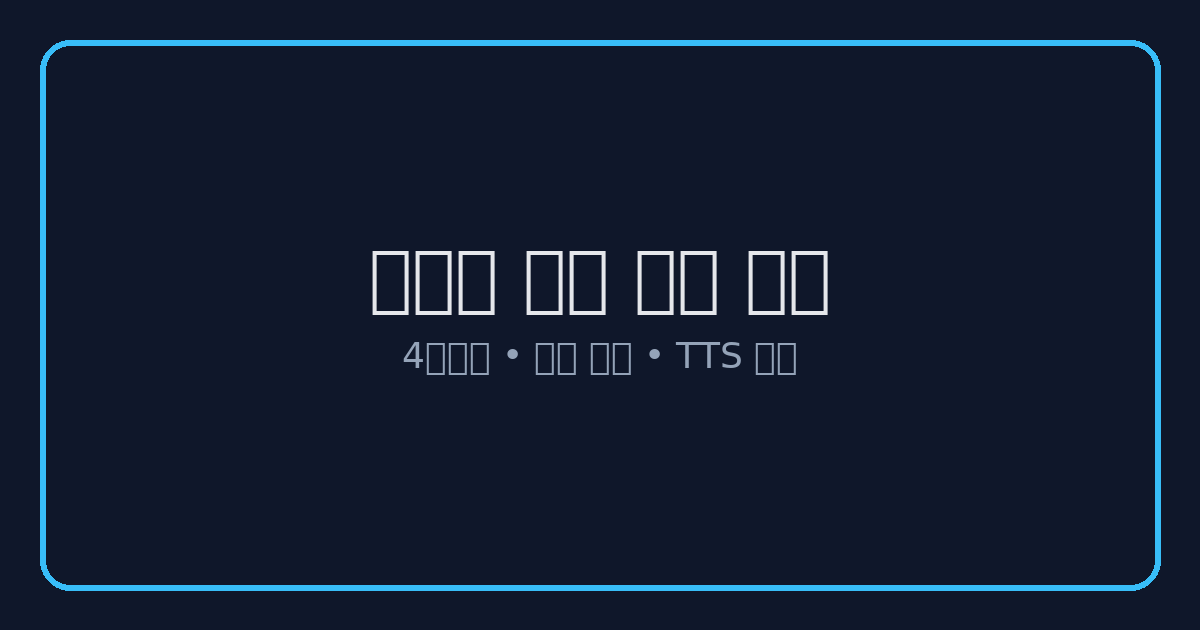
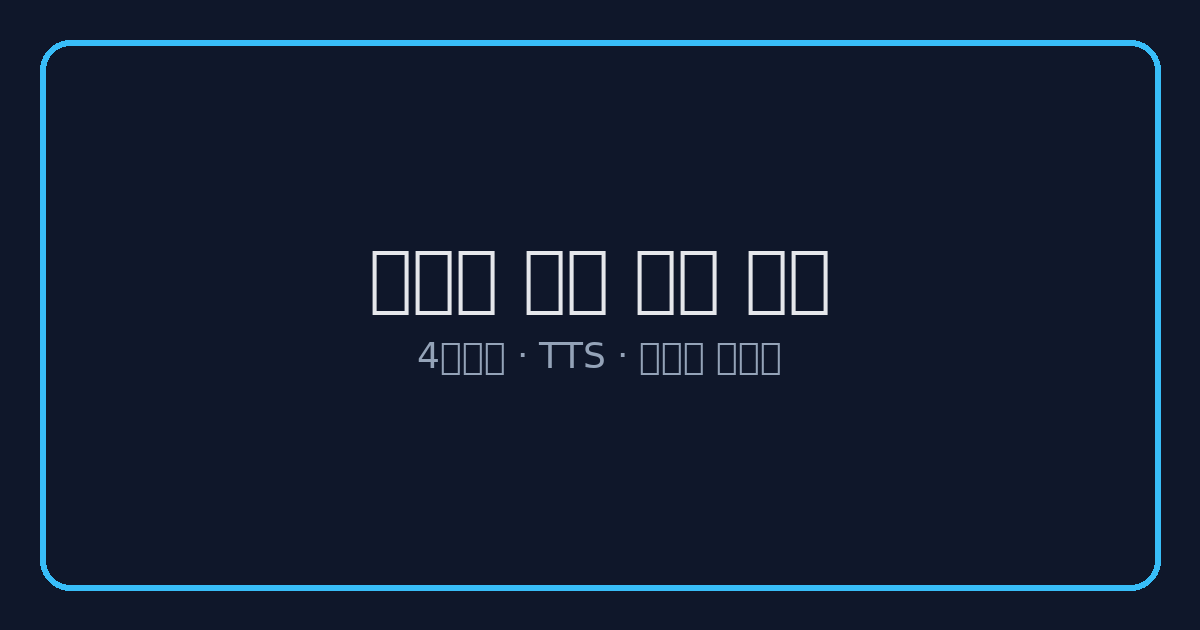
22

Changed region(s): [[0.3392, 0.5429, 0.6783, 0.6032]]

diff --git a/index.html b/index.html
@@ -2,48 +2,47 @@
 <html lang="ko">
 <head>
   <meta charset="UTF-8" />
-  <meta name="viewport" content="width=device-width, initial-scale=1" />
+  <meta name="viewport" content="width=device-width, initial-scale=1, viewport-fit=cover" />
+  <meta name="theme-color" content="#0b1220" />
   <title>유아용 영어 기초단어 퀴즈</title>
   <style>
-    :root{
-      --bg:#0f172a; --card:#111827cc; --text:#e5e7eb; --muted:#94a3b8; --primary:#22c55e; --danger:#ef4444; --accent:#38bdf8;
-    }
+    :root{ --bg:#0f172a; --card:#111827cc; --text:#e5e7eb; --muted:#94a3b8; --primary:#22c55e; --danger:#ef4444; --accent:#38bdf8; }
     *{box-sizing:border-box}
     body{margin:0;background:linear-gradient(180deg,#0b1220,#111827);color:var(--text);font-family:system-ui,-apple-system,Segoe UI,Roboto,Pretendard,Apple SD Gothic Neo,Noto Sans KR,sans-serif;}
-    .container{max-width:960px;margin:0 auto;padding:20px}
-    header{display:flex;gap:16px;align-items:center;justify-content:space-between;margin-bottom:16px}
+    .container{max-width:960px;margin:0 auto;padding:16px}
+    header{display:flex;gap:12px;align-items:center;justify-content:space-between;margin-bottom:12px}
     .title{font-weight:800;letter-spacing:.3px}
     .title .sub{display:block;font-size:13px;color:var(--muted);font-weight:500}
-    .card{background:var(--card);backdrop-filter:blur(8px);border:1px solid #1f2937;border-radius:20px;padding:18px}
-    .row{display:grid;grid-template-columns:1fr;gap:16px}
+    .card{background:var(--card);backdrop-filter:blur(8px);border:1px solid #1f2937;border-radius:16px;padding:14px}
+    .row{display:grid;grid-template-columns:1fr;gap:12px}
     @media(min-width:760px){.row{grid-template-columns:2fr 1fr}}
-    .word{font-size:40px;font-weight:900;letter-spacing:.5px;text-align:center}
-    .hint{font-size:14px;color:var(--muted);text-align:center;margin-top:4px}
-    .options{display:grid;grid-template-columns:1fr;gap:12px;margin-top:16px}
-    @media(min-width:560px){.options{grid-template-columns:1fr 1fr}}
-    button.option{all:unset;cursor:pointer;padding:14px 16px;border:1px solid #1f2937;border-radius:14px;background:#0b1220;transition:transform .08s ease, background .2s ease, border-color .2s}
+    .word{font-size:clamp(26px,8vw,40px);font-weight:900;letter-spacing:.5px;text-align:center}
+    .hint{font-size:13px;color:var(--muted);text-align:center;margin-top:2px}
+    .options{display:grid;grid-template-columns:1fr 1fr;gap:10px;margin-top:12px}
+    @media(max-width:360px){.options{grid-template-columns:1fr}}
+    button.option{all:unset;cursor:pointer;padding:12px;border:1px solid #1f2937;border-radius:12px;background:#0b1220;transition:transform .08s ease, background .2s ease, border-color .2s}
     button.option:hover{transform:translateY(-1px);border-color:#334155}
     button.option.correct{border-color:var(--primary);background:#052e17}
     button.option.wrong{border-color:var(--danger);background:#2a0a0a}
-    .controls{display:flex;gap:10px;flex-wrap:wrap;align-items:center}
+    .controls{display:flex;gap:8px;flex-wrap:wrap;align-items:center}
     .controls button,.controls select,.controls label{font-size:14px}
-    .btn{all:unset;cursor:pointer;padding:10px 14px;border:1px solid #1f2937;border-radius:12px;background:#0b1220}
+    .btn{all:unset;cursor:pointer;padding:9px 12px;border:1px solid #1f2937;border-radius:12px;background:#0b1220}
     .btn:hover{border-color:#334155}
-    .pill{padding:8px 10px;border-radius:999px;background:#0b1220;border:1px solid #1f2937}
+    .pill{padding:6px 8px;border-radius:999px;background:#0b1220;border:1px solid #1f2937}
     .score{font-weight:700}
-    .progress{height:8px;background:#0b1220;border:1px solid #1f2937;border-radius:999px;overflow:hidden}
+    .progress{height:6px;background:#0b1220;border:1px solid #1f2937;border-radius:999px;overflow:hidden}
     .bar{height:100%;width:0;background:linear-gradient(90deg,var(--accent),#22d3ee,#22c55e)}
     .small{font-size:12px;color:var(--muted)}
     .kbd{padding:2px 6px;border:1px solid #334155;border-bottom-width:3px;border-radius:6px;background:#0b1220;font-family:ui-monospace,monospace}
-    footer{margin-top:18px;color:var(--muted);font-size:12px;text-align:center}
+    footer{margin-top:12px;color:var(--muted);font-size:12px;text-align:center}
   </style>
 </head>
 <body>
   <div class="container">
     <header>
       <div class="title">
-        <div style="font-size:22px">유아용 영어 기초단어 퀴즈</div>
-        <span class="sub">위에 보이는 <strong>영어 단어</strong>를 보고 아래 <strong>한글 뜻</strong>을 고르세요. 정답 시 TTS가 읽어줘요.</span>
+        <div style="font-size:20px">유아용 영어 기초단어 퀴즈</div>
+        <span class="sub">영어 단어를 보고 맞는 <strong>한글 뜻</strong>을 고르세요. 정답 시 TTS 발음!</span>
       </div>
       <div class="pill score" id="scoreBox">0 / 0</div>
     </header>
@@ -53,7 +52,7 @@
         <div class="word" id="word">loading…</div>
         <div class="hint" id="hint"></div>
         <div class="options" id="options"></div>
-        <div class="controls" style="margin-top:14px">
+        <div class="controls" style="margin-top:10px">
           <button class="btn" id="nextBtn" title="다음 문제 (N)">다음 문제 ▶</button>
           <button class="btn" id="hearBtn" title="영어 단어 듣기 (H)">단어 듣기 🔊</button>
           <label class="pill"><input type="checkbox" id="readKorean"/> 정답 후 한글도 읽기</label>
@@ -61,28 +60,61 @@
           <select class="pill" id="voiceEn"></select>
           <select class="pill" id="voiceKo"></select>
         </div>
-        <div class="progress" style="margin-top:10px"><div class="bar" id="bar"></div></div>
+        <div class="progress" style="margin-top:8px"><div class="bar" id="bar"></div></div>
       </section>
 
       <aside class="card">
-        <div style="font-weight:700;margin-bottom:8px">설정 & 도움말</div>
+        <div style="font-weight:700;margin-bottom:6px">도움말</div>
         <div class="small" style="line-height:1.7">
           • <span class="kbd">N</span> : 다음 문제, <span class="kbd">H</span> : 단어 듣기<br/>
           • 보기 클릭 후 정답이 <span style="color:var(--primary)">초록</span>으로 표시돼요.<br/>
-          • "정답 후 한글도 읽기"를 켜면 영어→한글 순서로 읽습니다.<br/>
-          • "자동 다음"을 켜면 정답 TTS 뒤 자동으로 다음 문제가 나옵니다.(대기 약 3.4초)<br/>
-          • 우측 드롭다운으로 영어/한국어 음성을 선택할 수 있어요.<br/>
+          • 자동다음: 정답 후 대기 약 <b>3.4초</b> 뒤 다음 문제.<br/>
+          • 드롭다운에서 영어/한국어 음성을 선택할 수 있어요.<br/>
         </div>
-        <hr style="border-color:#1f2937;margin:12px 0"/>
-        <div class="small">단어 추가/수정은 아래 코드의 <strong>WORDS</strong> 배열을 편집하면 됩니다.</div>
       </aside>
     </div>
 
-    <footer>© 2025 Basic English Quiz • Web Speech API (TTS) 사용</footer>
+    <footer>© 2025 Basic English Quiz • Web Speech API (TTS)</footer>
   </div>
 
 <script>
-const WORDS = [{en:"apple", ko:"사과", hint:"fruit"},{en:"banana", ko:"바나나", hint:"fruit"},{en:"cat", ko:"고양이", hint:"animal"},{en:"dog", ko:"개", hint:"animal"},{en:"bird", ko:"새", hint:"animal"},{en:"fish", ko:"물고기", hint:"animal"},{en:"cow", ko:"소", hint:"farm"},{en:"pig", ko:"돼지", hint:"farm"},{en:"horse", ko:"말", hint:"farm"},{en:"rabbit", ko:"토끼", hint:"animal"},{en:"lion", ko:"사자", hint:"zoo"},{en:"tiger", ko:"호랑이", hint:"zoo"},{en:"bear", ko:"곰", hint:"zoo"},{en:"monkey", ko:"원숭이", hint:"zoo"},{en:"elephant", ko:"코끼리", hint:"zoo"},{en:"giraffe", ko:"기린", hint:"zoo"},{en:"zebra", ko:"얼룩말", hint:"zoo"},{en:"chicken", ko:"닭", hint:"farm"},{en:"duck", ko:"오리", hint:"animal"},{en:"frog", ko:"개구리", hint:"animal"},{en:"sun", ko:"태양", hint:"sky"},{en:"moon", ko:"달", hint:"sky"},{en:"star", ko:"별", hint:"sky"},{en:"sky", ko:"하늘", hint:"sky"},{en:"cloud", ko:"구름", hint:"weather"},{en:"rain", ko:"비", hint:"weather"},{en:"snow", ko:"눈", hint:"weather"},{en:"water", ko:"물", hint:"drink"},{en:"fire", ko:"불", hint:"hot"},{en:"tree", ko:"나무", hint:"nature"},{en:"flower", ko:"꽃", hint:"nature"},{en:"grass", ko:"풀", hint:"nature"},{en:"leaf", ko:"잎", hint:"nature"},{en:"car", ko:"자동차", hint:"vehicle"},{en:"bus", ko:"버스", hint:"vehicle"},{en:"train", ko:"기차", hint:"vehicle"},{en:"plane", ko:"비행기", hint:"vehicle"},{en:"boat", ko:"배", hint:"vehicle"},{en:"house", ko:"집", hint:"home"},{en:"door", ko:"문", hint:"home"},{en:"window", ko:"창문", hint:"home"},{en:"bed", ko:"침대", hint:"home"},{en:"chair", ko:"의자", hint:"home"},{en:"table", ko:"탁자", hint:"home"},{en:"book", ko:"책", hint:"study"},{en:"pencil", ko:"연필", hint:"study"},{en:"pen", ko:"펜", hint:"study"},{en:"bag", ko:"가방", hint:"school"},{en:"shoes", ko:"신발", hint:"wear"},{en:"hat", ko:"모자", hint:"wear"},{en:"shirt", ko:"셔츠", hint:"wear"},{en:"pants", ko:"바지", hint:"wear"},{en:"milk", ko:"우유", hint:"drink"},{en:"juice", ko:"주스", hint:"drink"},{en:"bread", ko:"빵", hint:"food"},{en:"rice", ko:"밥", hint:"food"},{en:"egg", ko:"계란", hint:"food"},{en:"cake", ko:"케이크", hint:"food"},{en:"candy", ko:"사탕", hint:"food"},{en:"mom", ko:"엄마", hint:"family"},{en:"dad", ko:"아빠", hint:"family"},{en:"baby", ko:"아기", hint:"family"},{en:"friend", ko:"친구", hint:"people"},{en:"hello", ko:"안녕", hint:"greeting"},{en:"bye", ko:"잘 가", hint:"greeting"},{en:"thank you", ko:"고마워", hint:"phrase"},{en:"please", ko:"부탁해", hint:"phrase"},{en:"yes", ko:"네", hint:"answer"},{en:"no", ko:"아니오", hint:"answer"}];
+const WORDS = [
+  {en:"apple", ko:"사과", hint:"fruit"},{en:"banana", ko:"바나나", hint:"fruit"},
+  {en:"cat", ko:"고양이", hint:"animal"},{en:"dog", ko:"개", hint:"animal"},
+  {en:"bird", ko:"새", hint:"animal"},{en:"fish", ko:"물고기", hint:"animal"},
+  {en:"cow", ko:"소", hint:"farm"},{en:"pig", ko:"돼지", hint:"farm"},
+  {en:"horse", ko:"말", hint:"farm"},{en:"rabbit", ko:"토끼", hint:"animal"},
+  {en:"lion", ko:"사자", hint:"zoo"},{en:"tiger", ko:"호랑이", hint:"zoo"},
+  {en:"bear", ko:"곰", hint:"zoo"},{en:"monkey", ko:"원숭이", hint:"zoo"},
+  {en:"elephant", ko:"코끼리", hint:"zoo"},{en:"giraffe", ko:"기린", hint:"zoo"},
+  {en:"zebra", ko:"얼룩말", hint:"zoo"},{en:"chicken", ko:"닭", hint:"farm"},
+  {en:"duck", ko:"오리", hint:"animal"},{en:"frog", ko:"개구리", hint:"animal"},
+  {en:"sun", ko:"태양", hint:"sky"},{en:"moon", ko:"달", hint:"sky"},
+  {en:"star", ko:"별", hint:"sky"},{en:"sky", ko:"하늘", hint:"sky"},
+  {en:"cloud", ko:"구름", hint:"weather"},{en:"rain", ko:"비", hint:"weather"},
+  {en:"snow", ko:"눈", hint:"weather"},{en:"water", ko:"물", hint:"drink"},
+  {en:"fire", ko:"불", hint:"hot"},{en:"tree", ko:"나무", hint:"nature"},
+  {en:"flower", ko:"꽃", hint:"nature"},{en:"grass", ko:"풀", hint:"nature"},
+  {en:"leaf", ko:"잎", hint:"nature"},{en:"car", ko:"자동차", hint:"vehicle"},
+  {en:"bus", ko:"버스", hint:"vehicle"},{en:"train", ko:"기차", hint:"vehicle"},
+  {en:"plane", ko:"비행기", hint:"vehicle"},{en:"boat", ko:"배", hint:"vehicle"},
+  {en:"house", ko:"집", hint:"home"},{en:"door", ko:"문", hint:"home"},
+  {en:"window", ko:"창문", hint:"home"},{en:"bed", ko:"침대", hint:"home"},
+  {en:"chair", ko:"의자", hint:"home"},{en:"table", ko:"탁자", hint:"home"},
+  {en:"book", ko:"책", hint:"study"},{en:"pencil", ko:"연필", hint:"study"},
+  {en:"pen", ko:"펜", hint:"study"},{en:"bag", ko:"가방", hint:"school"},
+  {en:"shoes", ko:"신발", hint:"wear"},{en:"hat", ko:"모자", hint:"wear"},
+  {en:"shirt", ko:"셔츠", hint:"wear"},{en:"pants", ko:"바지", hint:"wear"},
+  {en:"milk", ko:"우유", hint:"drink"},{en:"juice", ko:"주스", hint:"drink"},
+  {en:"bread", ko:"빵", hint:"food"},{en:"rice", ko:"밥", hint:"food"},
+  {en:"egg", ko:"계란", hint:"food"},{en:"cake", ko:"케이크", hint:"food"},
+  {en:"candy", ko:"사탕", hint:"food"},{en:"mom", ko:"엄마", hint:"family"},
+  {en:"dad", ko:"아빠", hint:"family"},{en:"baby", ko:"아기", hint:"family"},
+  {en:"friend", ko:"친구", hint:"people"},{en:"hello", ko:"안녕", hint:"greeting"},
+  {en:"bye", ko:"잘 가", hint:"greeting"},{en:"thank you", ko:"고마워", hint:"phrase"},
+  {en:"please", ko:"부탁해", hint:"phrase"},{en:"yes", ko:"네", hint:"answer"},
+  {en:"no", ko:"아니오", hint:"answer"}
+];
 
 const $ = (sel)=>document.querySelector(sel);
 const $$ = (sel)=>Array.from(document.querySelectorAll(sel));
